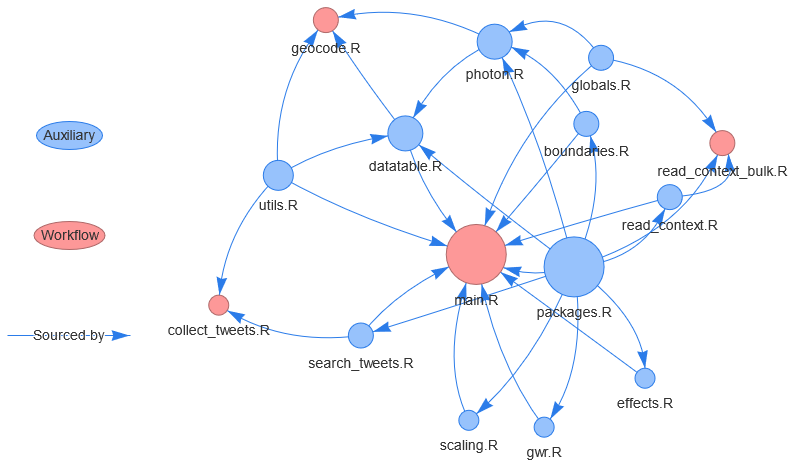
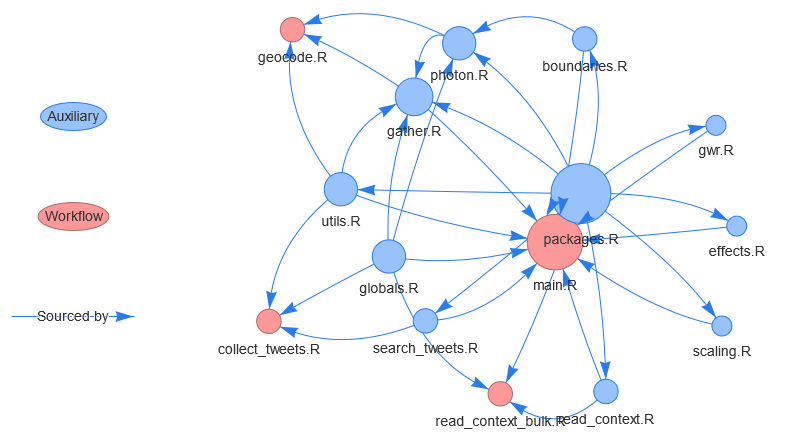
included links in readme

diff --git a/plots/network.html b/plots/network.html
@@ -5312,11 +5312,11 @@ HTMLWidgets.widget({
 </head>
 <body style="background-color: white;">
 <div id="htmlwidget_container">
-<div id="htmlwidget-1c96c979b72553f54b23" class="visNetwork html-widget" style="width:50%;height:500px;">
+<div id="htmlwidget-0c82afa99cf691d9b125" class="visNetwork html-widget" style="width:50%;height:500px;">
 
 </div>
 </div>
-<script type="application/json" data-for="htmlwidget-1c96c979b72553f54b23">{"x":{"nodes":{"id":[1,2,3,4,5,6,7,8,9,10,11,12,13,14,15],"label":["boundaries.R","collect_tweets.R","datatable.R","effects.R","geocode.R","globals.R","gwr.R","main.R","packages.R","photon.R","read_context.R","read_context_bulk.R","scaling.R","search_tweets.R","utils.R"],"group":["Auxiliary","Workflow","Auxiliary","Auxiliary","Workflow","Auxiliary","Auxiliary","Workflow","Auxiliary","Auxiliary","Auxiliary","Workflow","Auxiliary","Auxiliary","Auxiliary"],"value":[0.3,0.2,0.5,0.2,0.3,0.3,0.2,1,1,0.5,0.3,0.3,0.2,0.3,0.4],"color.background":[null,null,null,null,null,null,null,null,null,null,null,null,null,null,null],"color.border":[null,null,null,null,null,null,null,null,null,null,null,null,null,null,null]},"edges":{"from":[9,14,15,9,15,10,9,10,3,15,9,9,6,3,1,13,14,11,7,4,15,9,6,1,9,9,6,11,9,9],"to":[1,2,2,3,3,3,4,5,5,5,7,8,8,8,8,8,8,8,8,8,8,10,10,10,11,12,12,12,13,14]},"nodesToDataframe":true,"edgesToDataframe":true,"options":{"width":"100%","height":"100%","nodes":{"shape":"dot","scaling":{"min":10,"max":30}},"manipulation":{"enabled":false},"edges":{"arrows":"to"},"groups":{"Workflow":{"color":{"background":"#FD9898","border":"#AF6969"}},"useDefaultGroups":true},"layout":{"randomSeed":1111}},"groups":["Auxiliary","Workflow"],"width":"50%","height":null,"idselection":{"enabled":false},"byselection":{"enabled":false},"main":null,"submain":null,"footer":null,"background":"rgba(0, 0, 0, 0)","legend":{"width":0.2,"useGroups":true,"position":"left","ncol":1,"stepX":100,"stepY":100,"zoom":true,"edges":{"label":["Sourced by"]},"edgesToDataframe":true}},"evals":[],"jsHooks":[]}</script>
-<script type="application/htmlwidget-sizing" data-for="htmlwidget-1c96c979b72553f54b23">{"viewer":{"width":"50%","height":350,"padding":15,"fill":false},"browser":{"width":"50%","height":500,"padding":40,"fill":false}}</script>
+<script type="application/json" data-for="htmlwidget-0c82afa99cf691d9b125">{"x":{"nodes":{"id":[1,2,3,4,5,6,7,8,9,10,11,12,13,14,15],"label":["boundaries.R","collect_tweets.R","effects.R","gather.R","geocode.R","globals.R","gwr.R","main.R","packages.R","photon.R","read_context.R","read_context_bulk.R","scaling.R","search_tweets.R","utils.R"],"group":["Auxiliary","Workflow","Auxiliary","Auxiliary","Workflow","Auxiliary","Auxiliary","Workflow","Auxiliary","Auxiliary","Auxiliary","Workflow","Auxiliary","Auxiliary","Auxiliary"],"value":[0.3,0.3,0.2,0.6,0.3,0.5,0.2,1,1.1,0.5,0.3,0.3,0.2,0.3,0.5],"color.background":[null,null,null,null,null,null,null,null,null,null,null,null,null,null,null],"color.border":[null,null,null,null,null,null,null,null,null,null,null,null,null,null,null]},"edges":{"from":[9,14,6,15,9,9,6,15,10,10,4,15,9,9,6,4,1,13,14,11,7,3,15,9,6,1,9,9,6,11,9,9,9],"to":[1,2,2,2,3,4,4,4,4,5,5,5,7,8,8,8,8,8,8,8,8,8,8,10,10,10,11,12,12,12,13,14,15]},"nodesToDataframe":true,"edgesToDataframe":true,"options":{"width":"100%","height":"100%","nodes":{"shape":"dot","scaling":{"min":10,"max":30}},"manipulation":{"enabled":false},"edges":{"arrows":"to"},"groups":{"Workflow":{"color":{"background":"#FD9898","border":"#AF6969"}},"useDefaultGroups":true},"layout":{"randomSeed":1111}},"groups":["Auxiliary","Workflow"],"width":"50%","height":null,"idselection":{"enabled":false},"byselection":{"enabled":false},"main":null,"submain":null,"footer":null,"background":"rgba(0, 0, 0, 0)","legend":{"width":0.2,"useGroups":true,"position":"left","ncol":1,"stepX":100,"stepY":100,"zoom":true,"edges":{"label":["Sourced by"]},"edgesToDataframe":true}},"evals":[],"jsHooks":[]}</script>
+<script type="application/htmlwidget-sizing" data-for="htmlwidget-0c82afa99cf691d9b125">{"viewer":{"width":"50%","height":350,"padding":15,"fill":false},"browser":{"width":"50%","height":500,"padding":40,"fill":false}}</script>
 </body>
 </html>

diff --git a/README.md b/README.md
@@ -12,23 +12,23 @@ The code files are divided into workflow files and auxiliary files. Workflow fil
 
 ### Workflow files
 
--   **main.R**: Contains the main workflow to prepare, scale, model and plot the results
--   **collect_tweets.R**: Collects tweets for the earliest possible day and saves them to ./data/tweets
--   **geocode.R**: Geocodes the earliest non-geocoded tweet package present in ./data/tweets and saves them to ./data/geo
--   **read_context_bulk**: Reads context variables from INKAR, IOER and OSM
+-   [**main.R**](./R/main.R): Contains the main workflow to prepare, scale, model and plot the results
+-   [**collect_tweets.R**](./R/collect_tweets.R): Collects tweets for the earliest possible day and saves them to ./data/tweets
+-   [**geocode.R**](./R/geocode.R): Geocodes the earliest non-geocoded tweet package present in ./data/tweets and saves them to ./data/geo
+-   [**read_context_bulk**](./R/read_context_bulk.R): Reads context variables from INKAR, IOER and OSM
 
 ### Auxiliary files
 
--   **boundaries.R**: Functions to collect data on administrative boundaries
--   **gather.R**: Functions to read (and filter) tweet packages
--   **globals.R**: Creates objects that are needed by multiple other code files
--   **hydrate.R**: Functions to get tweets from IDs
--   **read_context**: Functions that facilitate reading and cleaning context data
--   **read_destatis.R**: Functions to read data from destatis
--   **packages.R**: Loads all the packages needed for any of the code files (sourced in each file)
--   **photon.R**: Functions to control and query photon and filter the results
--   **search_tweets.R**: Functions to query the Twitter API
--   **tf_idf.R**: Function to calculate tf-idf values for a character vector
--   **utils.R**: Various utility functions
+-   [**boundaries.R**](./R/boundaries.R): Functions to collect data on administrative boundaries
+-   [**effects.R**](./R/effects.R): Utility functions for mixed effect models
+-   [**gather.R**](./R/gather.R): Functions to read (and filter) tweet packages
+-   [**globals.R**](./R/globals.R): Creates objects that are needed by multiple other code files
+-   [**gwr.R**](./R/gwr.R): Utility functions for GWR
+-   [**read_context**](./R/read_context.R): Functions that facilitate reading and cleaning context data
+-   [**packages.R**](./R/packages.R): Loads all the packages needed for any of the code files (sourced in each file)
+-   [**photon.R**](./R/photon.R): Functions to control and query photon and filter the results
+-   [**scaling.R**](./R/scaling.R): Utility functions for document scaling
+-   [**search_tweets.R**](./R/search_tweets.R): Functions to query the Twitter API
+-   [**utils.R**](./R/utils.R): Various utility functions
 
 ![](./plots/network.png)
